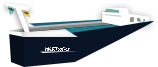
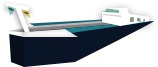
Fix positioning and sprite

Changed region(s): [[0.2532, 0.6866, 0.481, 0.806]]

diff --git a/client/src/components/RaceThemes/Maps/BoatMaps.ts b/client/src/components/RaceThemes/Maps/BoatMaps.ts
@@ -18,63 +18,63 @@ const mapOne = {
             backgroundColor: "#00ccff",
             decorations: [
                 {
-                    points: [{ xPercent: 0.4, yPercent: 0.1 }],
+                    points: [{ xPercent: 0.4, yPercent: 0.25 }],
                     class: "utrecthDom",
                     sprite: Sprites.utrecthDom,
                 },
 
                 {
-                    points: [{ xPercent: 0.08, yPercent: 0.22  }],
+                    points: [{ xPercent: 0.08, yPercent: 0.37  }],
                     class: "nieuweKerkBoat",
                     sprite: Sprites.nieuweKerk,
                 },
 
                 {
-                    points: [{ xPercent: 0.105, yPercent: 0.27  }],
+                    points: [{ xPercent: 0.105, yPercent: 0.40  }],
                     class: "thePierBoat",
                     sprite: Sprites.thePier,
                 },
 
                 {
-                    points: [{ xPercent: 0.04, yPercent: 0.09  }],
+                    points: [{ xPercent: 0.04, yPercent: 0.25  }],
                     class: "rotterdamBridgeBoat",
                     sprite: Sprites.rotterdamBridge,
                 },
 
                 {
-                    points: [{ xPercent: 0.21, yPercent: 0.2  }],
+                    points: [{ xPercent: 0.21, yPercent: 0.3  }],
                     class: "skyscraperBoat",
                     sprite: Sprites.skyScraper1,
                 },
 
                 {
-                    points: [{ xPercent: 0.23, yPercent: 0.17  }],
+                    points: [{ xPercent: 0.23, yPercent: 0.27  }],
                     class: "skyscraperBoat",
                     sprite: Sprites.skyScraper2,
                     zIndex: -1
                 },
 
                 {
-                    points: [{ xPercent: 0.43, yPercent: 0.37  }],
+                    points: [{ xPercent: 0.43, yPercent: 0.47  }],
                     class: "amsterdam",
                     sprite: Sprites.amsterdam,
                 },
 
                 {
-                    points: [{ xPercent: 0.55, yPercent: 0.55  }],
+                    points: [{ xPercent: 0.55, yPercent: 0.56  }],
                     class: "cheeseBoat",
                     sprite: Sprites.cheese,
                 },
 
                 {
-                    points: [{ xPercent: 0.155, yPercent: 0.375  }, { xPercent: 0.75, yPercent: 0.34  }],
+                    points: [{ xPercent: 0.155, yPercent: 0.42  }, { xPercent: 0.75, yPercent: 0.38  }],
                     class: "seagullBoat",
                     sprite: Sprites.seagullFly,
                     zIndex: 1000
                 },
 
                 {
-                    points: [{ xPercent: 0.04, yPercent: 0.19  }],
+                    points: [{ xPercent: 0.04, yPercent: 0.2  }],
                     class: "duckBoat",
                     sprite: Sprites.duck,
                     zIndex: 1000
@@ -210,8 +210,8 @@ const mapOne = {
                 { component: Deer, props: { startLeft: 70, startTop: 83, flipped: false } },
                 { component: Deer, props: { startLeft: 90, startTop: 80, flipped: true } },
                 { component: AmsterdamSail, props: {} },
-                { component: DuckSwim, props: { startLeft: 50, startTop: 72.5, flipped: true, scale: 0.4 } },
-                { component: DuckSwim, props: { startLeft: 36, startTop: 90, flipped: false, scale: 0.5 } },
+                { component: DuckSwim, props: { startLeft: 50, startTop: 73.5, flipped: true, scale: 0.4 } },
+                { component: DuckSwim, props: { startLeft: 36, startTop: 93, flipped: false, scale: 0.5 } },
                 { component: WindmillPark, props: {} },
                 { component: SmallShark, props: { startLeft: 45, startTop: 25, flipped: false, scale: 0.3 } },
                 { component: SmallShark, props: { startLeft: 78, startTop: 57, flipped: false, scale: 0.3 } },

diff --git a/client/src/components/RaceThemes/Maps/SpecialDecorationComponents/Schiphol/Schiphol.css b/client/src/components/RaceThemes/Maps/SpecialDecorationComponents/Schiphol/Schiphol.css
@@ -24,6 +24,7 @@
     position: absolute;
     top: 90%;
     left: 120%;
+    z-index: 1000;
     
     animation: smoothFlightCycle 21s linear infinite;
     animation-delay: 5s;
